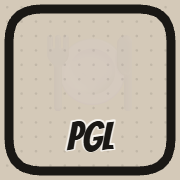
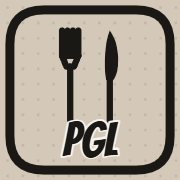
Icônes v2 avec couvert vectoriel (contour noir)

Changed region(s): [[0.0, 0.0, 1.0, 1.0], [0.3056, 0.1389, 0.6667, 0.8889]]

diff --git a/generer-icones.html b/generer-icones.html
@@ -4,78 +4,46 @@
 <meta charset="UTF-8">
 <meta name="viewport" content="width=device-width, initial-scale=1.0">
 <title>Générateur d'icônes PGL</title>
-<link href="https://fonts.googleapis.com/css2?family=Bangers&family=Inter:wght@400;600;700;800&display=swap" rel="stylesheet">
+<link href="https://fonts.googleapis.com/css2?family=Bangers&family=Archivo+Black&display=swap" rel="stylesheet">
 <style>
 body {
-  font-family: 'Inter', system-ui, sans-serif;
+  font-family: 'Archivo Black', system-ui, sans-serif;
   background: #d4c9b8;
   background-image: radial-gradient(circle, rgba(26,24,21,0.08) 1px, transparent 1px);
   background-size: 16px 16px;
-  padding: 24px 16px 60px; margin: 0;
-  color: #1a1815;
+  padding: 24px 16px 60px; margin: 0; color: #1a1815;
 }
 .wrap { max-width: 720px; margin: 0 auto; }
 h1 {
-  font-family: 'Bangers', cursive;
-  font-size: 36px; letter-spacing: 2px;
-  text-align: center; margin: 0 0 8px;
-  color: #f8f5f0; background: #5b7a99;
+  font-family: 'Bangers', cursive; font-size: 36px; letter-spacing: 2px;
+  text-align: center; margin: 0 0 8px; color: #f8f5f0; background: #5b7a99;
   padding: 6px 20px; width: fit-content; margin-left: auto; margin-right: auto;
   border: 3px solid #1a1815; box-shadow: 4px 4px 0 #1a1815;
   transform: rotate(-2deg); text-shadow: 2px 2px 0 #1a1815;
 }
-.intro {
-  text-align: center; font-size: 13px; margin-bottom: 24px;
-  color: #3b2f2a; line-height: 1.5;
-}
-.grid {
-  display: grid;
-  grid-template-columns: repeat(auto-fill, minmax(160px, 1fr));
-  gap: 16px;
-}
+.intro { text-align: center; font-size: 13px; margin-bottom: 24px; color: #3b2f2a; line-height: 1.5; }
+.grid { display: grid; grid-template-columns: repeat(auto-fill, minmax(160px, 1fr)); gap: 16px; }
 .card {
-  background: #fdfbf7; border: 3px solid #1a1815;
-  box-shadow: 4px 4px 0 #1a1815;
+  background: #fdfbf7; border: 3px solid #1a1815; box-shadow: 4px 4px 0 #1a1815;
   padding: 14px 12px; text-align: center;
 }
-.card img {
-  display: block; margin: 0 auto 10px;
-  image-rendering: -webkit-optimize-contrast;
-  border: 1px solid rgba(26,24,21,0.15);
-}
-.card .name {
-  font-family: 'Archivo Black', 'Inter', sans-serif;
-  font-size: 10px; letter-spacing: 0.5px;
-  text-transform: uppercase; color: #1a1815; margin-bottom: 4px;
-}
-.card .size {
-  font-size: 11px; color: #6b5e50; margin-bottom: 10px;
-}
+.card img { display: block; margin: 0 auto 10px; border: 1px solid rgba(26,24,21,0.15); }
+.card .name { font-size: 10px; letter-spacing: 0.5px; text-transform: uppercase; color: #1a1815; margin-bottom: 4px; }
+.card .size { font-size: 11px; color: #6b5e50; margin-bottom: 10px; font-family: system-ui, sans-serif; font-weight: 600; }
 .dl {
-  display: block; width: 100%;
-  padding: 8px; border: 2px solid #1a1815;
+  display: block; width: 100%; padding: 8px; border: 2px solid #1a1815;
   background: #7a9668; color: white; text-decoration: none;
   font-family: 'Archivo Black', sans-serif; font-size: 10px;
   text-transform: uppercase; letter-spacing: 0.5px;
-  cursor: pointer; box-shadow: 2px 2px 0 #1a1815;
-  box-sizing: border-box;
+  cursor: pointer; box-shadow: 2px 2px 0 #1a1815; box-sizing: border-box;
 }
 .dl:active { transform: translate(2px, 2px); box-shadow: none; }
 .note {
-  margin-top: 32px; padding: 14px 16px;
-  background: #fdfbf7; border: 3px dashed #1a1815;
-  font-size: 13px; line-height: 1.6; color: #3b2f2a;
+  margin-top: 32px; padding: 14px 16px; background: #fdfbf7; border: 3px dashed #1a1815;
+  font-size: 13px; line-height: 1.6; color: #3b2f2a; font-family: system-ui, sans-serif;
 }
-.note code {
-  background: #f4ecd8; padding: 1px 6px;
-  border: 1px solid rgba(26,24,21,0.15); font-size: 12px;
-  border-radius: 3px;
-}
-.note h3 {
-  font-family: 'Archivo Black', sans-serif; font-size: 12px;
-  text-transform: uppercase; letter-spacing: 0.6px;
-  margin: 0 0 8px; color: #1a1815;
-}
+.note code { background: #f4ecd8; padding: 1px 6px; border: 1px solid rgba(26,24,21,0.15); font-size: 12px; border-radius: 3px; }
+.note h3 { font-family: 'Archivo Black', sans-serif; font-size: 12px; text-transform: uppercase; letter-spacing: 0.6px; margin: 0 0 8px; color: #1a1815; }
 .note ol { padding-left: 18px; margin: 8px 0 0; }
 .note li { margin-bottom: 4px; }
 </style>
@@ -86,29 +54,29 @@ h1 {
   <h1>🎨 Générateur d'icônes PGL</h1>
   <p class="intro">
     Clique sur <strong>💾 Télécharger</strong> sous chaque taille.<br>
-    Les 5 fichiers vont dans le dossier du projet, à côté de <code>index.html</code>.
+    Puis remplace les 5 PNG existants dans le dossier du projet.
   </p>
   <div class="grid" id="grid"></div>
 
   <div class="note">
     <h3>📌 Comment s'en servir</h3>
     <ol>
-      <li>Ouvre cette page dans Chrome ou Safari (Mac ou PC).</li>
-      <li>Clique sur les 5 boutons <strong>💾 Télécharger</strong> → 5 fichiers PNG dans ton dossier <em>Téléchargements</em>.</li>
-      <li>Déplace-les dans le dossier du projet (à côté de <code>index.html</code>).</li>
-      <li>Applique les modifications sur <code>index.html</code>, <code>manifest.json</code> et <code>sw.js</code> (voir la suite du message).</li>
-      <li>Sur iPhone : Supprimer l'app de l'écran d'accueil → Safari → Partager → « Sur l'écran d'accueil » → la nouvelle icône apparaît.</li>
+      <li>Télécharge les 5 PNG (boutons verts).</li>
+      <li>Écrase les anciens fichiers dans <code>projet calories/</code>.</li>
+      <li>Bump le cache dans <code>sw.js</code> : <code>pgl-v2</code> → <code>pgl-v3</code>.</li>
+      <li>Sur iPhone : supprime l'app, vide le cache Safari, réinstalle.</li>
+      <li>Commit : <code>git add *.png sw.js && git commit -m "icônes v2 avec couvert vectoriel"</code></li>
     </ol>
   </div>
 </div>
 
 <script>
 const ICONS = [
-  { name: 'icon-512.png',        size: 512 },
-  { name: 'icon-192.png',        size: 192 },
+  { name: 'icon-512.png',         size: 512 },
+  { name: 'icon-192.png',         size: 192 },
   { name: 'apple-touch-icon.png', size: 180 },
-  { name: 'favicon-32.png',      size: 32 },
-  { name: 'favicon-16.png',      size: 16 }
+  { name: 'favicon-32.png',       size: 32 },
+  { name: 'favicon-16.png',       size: 16 }
 ];
 
 function rr(ctx, x, y, w, h, r) {
@@ -125,6 +93,87 @@ function rr(ctx, x, y, w, h, r) {
   ctx.closePath();
 }
 
+// Dessine fourchette (à gauche) et couteau (à droite)
+function drawCutlery(ctx, cx, cy, h, strokeW) {
+  ctx.strokeStyle = '#1a1815';
+  ctx.fillStyle = '#1a1815';
+  ctx.lineWidth = strokeW;
+  ctx.lineCap = 'round';
+  ctx.lineJoin = 'round';
+
+  const halfH = h / 2;
+  const gap = h * 0.22;
+  const forkX = cx - gap;
+  const knifeX = cx + gap;
+
+  // ============ FOURCHETTE ============
+  const forkTop = cy - halfH;
+  const forkBot = cy + halfH;
+  const teethH = h * 0.28;
+  const headH = h * 0.12;
+  const headW = h * 0.18;
+
+  // 4 dents
+  const numTeeth = 4;
+  for (let i = 0; i < numTeeth; i++) {
+    const tx = forkX - headW / 2 + (headW / (numTeeth - 1)) * i;
+    ctx.beginPath();
+    ctx.moveTo(tx, forkTop);
+    ctx.lineTo(tx, forkTop + teethH);
+    ctx.stroke();
+  }
+
+  // Tête (barre horizontale sous les dents)
+  ctx.beginPath();
+  ctx.moveTo(forkX - headW / 2, forkTop + teethH);
+  ctx.lineTo(forkX + headW / 2, forkTop + teethH);
+  ctx.stroke();
+
+  // Cou (petit étranglement sous la tête)
+  ctx.beginPath();
+  ctx.moveTo(forkX - headW / 2, forkTop + teethH);
+  ctx.lineTo(forkX - strokeW * 0.6, forkTop + teethH + headH);
+  ctx.lineTo(forkX + strokeW * 0.6, forkTop + teethH + headH);
+  ctx.lineTo(forkX + headW / 2, forkTop + teethH);
+  ctx.stroke();
+
+  // Manche
+  ctx.beginPath();
+  ctx.moveTo(forkX, forkTop + teethH + headH);
+  ctx.lineTo(forkX, forkBot);
+  ctx.stroke();
+
+  // ============ COUTEAU ============
+  const knifeTop = cy - halfH;
+  const knifeBot = cy + halfH;
+  const bladeH = h * 0.55;
+  const bladeW = h * 0.13;
+  const handleTop = knifeTop + bladeH;
+
+  // Lame (forme de goutte / demi-ovale)
+  ctx.beginPath();
+  ctx.moveTo(knifeX, knifeTop);                                     // pointe
+  ctx.bezierCurveTo(
+    knifeX + bladeW * 0.9, knifeTop + bladeH * 0.25,
+    knifeX + bladeW * 0.9, knifeTop + bladeH * 0.85,
+    knifeX + bladeW * 0.3, handleTop
+  );
+  ctx.lineTo(knifeX - bladeW * 0.3, handleTop);
+  ctx.bezierCurveTo(
+    knifeX - bladeW * 0.5, knifeTop + bladeH * 0.85,
+    knifeX - bladeW * 0.5, knifeTop + bladeH * 0.25,
+    knifeX, knifeTop
+  );
+  ctx.closePath();
+  ctx.fill();
+
+  // Manche du couteau
+  ctx.beginPath();
+  ctx.moveTo(knifeX, handleTop);
+  ctx.lineTo(knifeX, knifeBot);
+  ctx.stroke();
+}
+
 function drawIcon(size) {
   const canvas = document.createElement('canvas');
   canvas.width = size;
@@ -136,8 +185,8 @@ function drawIcon(size) {
   ctx.fillRect(0, 0, size, size);
 
   // 2. Pois discrets
-  const dotR = Math.max(0.6, size * 0.007);
-  const spacing = size * 0.08;
+  const dotR = Math.max(0.5, size * 0.007);
+  const spacing = size * 0.085;
   ctx.fillStyle = 'rgba(26,24,21,0.10)';
   for (let x = spacing / 2; x < size; x += spacing) {
     for (let y = spacing / 2; y < size; y += spacing) {
@@ -147,29 +196,30 @@ function drawIcon(size) {
     }
   }
 
-  // 3. Bordure noire épaisse arrondie
+  // 3. Bordure noire épaisse (style comic)
+  const inset = size * 0.055;
   const borderW = size * 0.05;
-  const inset = size * 0.05;
   ctx.strokeStyle = '#1a1815';
   ctx.lineWidth = borderW;
-  rr(ctx, inset, inset, size - inset * 2, size - inset * 2, size * 0.18);
+  rr(ctx, inset, inset, size - inset * 2, size - inset * 2, size * 0.19);
   ctx.stroke();
 
-  // 4. Emoji 🍽 centré (partie haute)
+  // 4. Couvert vectoriel (fourchette + couteau)
+  const cutleryH = size * 0.50;
+  const strokeW = size * 0.035;
+  const cutleryCY = size * 0.42;
+  drawCutlery(ctx, size / 2, cutleryCY, cutleryH, strokeW);
+
+  // 5. Texte "PGL" en Bangers avec contour
+  const textSize = size * 0.26;
+  ctx.font = `${textSize}px Bangers, cursive`;
   ctx.textAlign = 'center';
   ctx.textBaseline = 'middle';
-  const emojiSize = size * 0.48;
-  ctx.font = `${emojiSize}px "Apple Color Emoji","Segoe UI Emoji","Noto Color Emoji",sans-serif`;
-  ctx.fillText('🍽', size / 2, size * 0.42);
-
-  // 5. Texte "PGL" en Bangers
-  const textSize = size * 0.22;
-  ctx.font = `${textSize}px Bangers, cursive`;
   ctx.lineJoin = 'round';
-  ctx.lineWidth = size * 0.014;
+  ctx.lineWidth = size * 0.018;
   ctx.strokeStyle = '#f8f5f0';
   ctx.fillStyle = '#1a1815';
-  const textY = size * 0.76;
+  const textY = size * 0.78;
   ctx.strokeText('PGL', size / 2, textY);
   ctx.fillText('PGL', size / 2, textY);
 
@@ -182,7 +232,6 @@ function render() {
     const url = drawIcon(ic.size);
     const card = document.createElement('div');
     card.className = 'card';
-    // Préview visuelle à ~120px max pour homogénéité, sauf si plus petit
     const previewSize = Math.min(ic.size, 120);
     card.innerHTML = `
       <img src="${url}" width="${previewSize}" height="${previewSize}" alt="${ic.name}">
@@ -194,7 +243,6 @@ function render() {
   });
 }
 
-// Attendre les polices (Bangers) avant de dessiner
 if (document.fonts && document.fonts.ready) {
   document.fonts.load('100px Bangers').then(() => {
     document.fonts.ready.then(render);

diff --git a/sw.js b/sw.js
@@ -1,4 +1,4 @@
-const CACHE = 'pgl-v2';
+const CACHE = 'pgl-v2';    →    const CACHE = 'pgl-v3';
 const ASSETS = [
   './index.html',
   './manifest.json',
